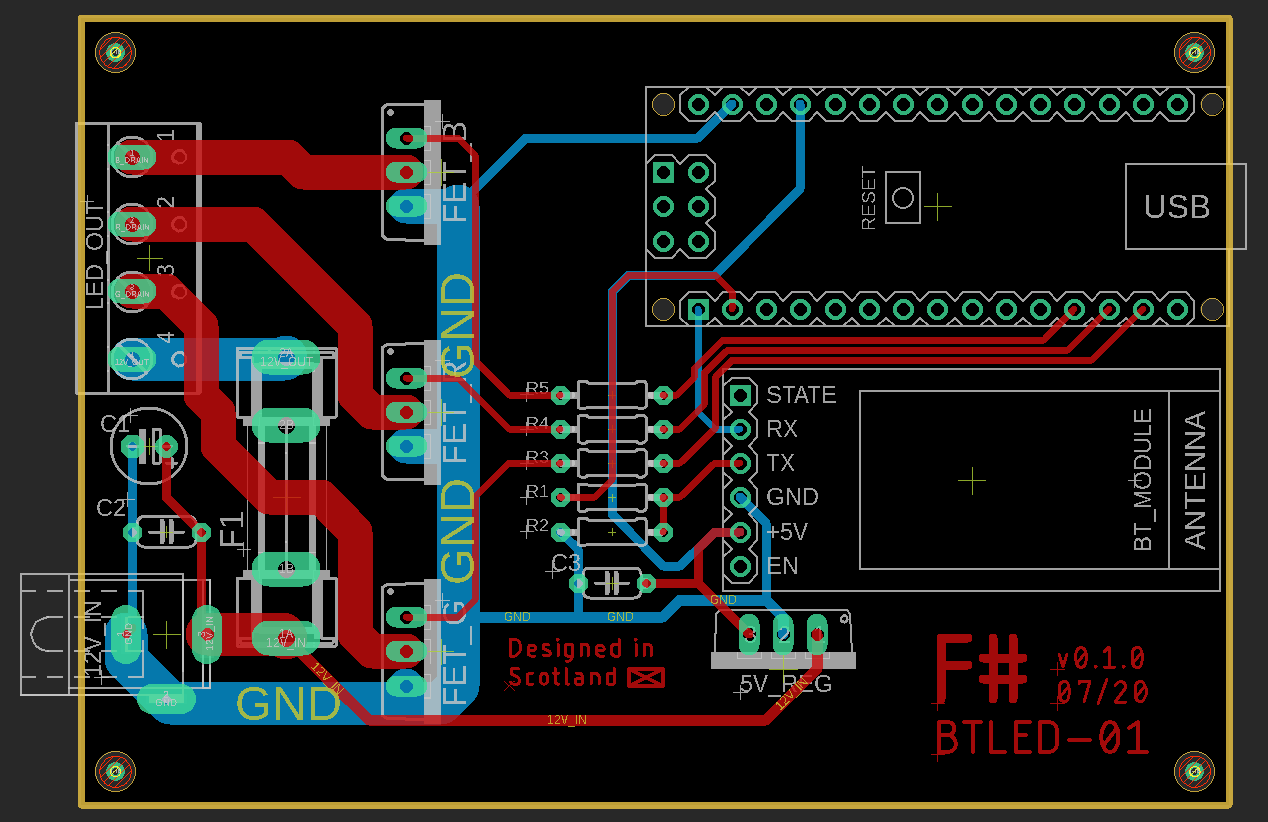
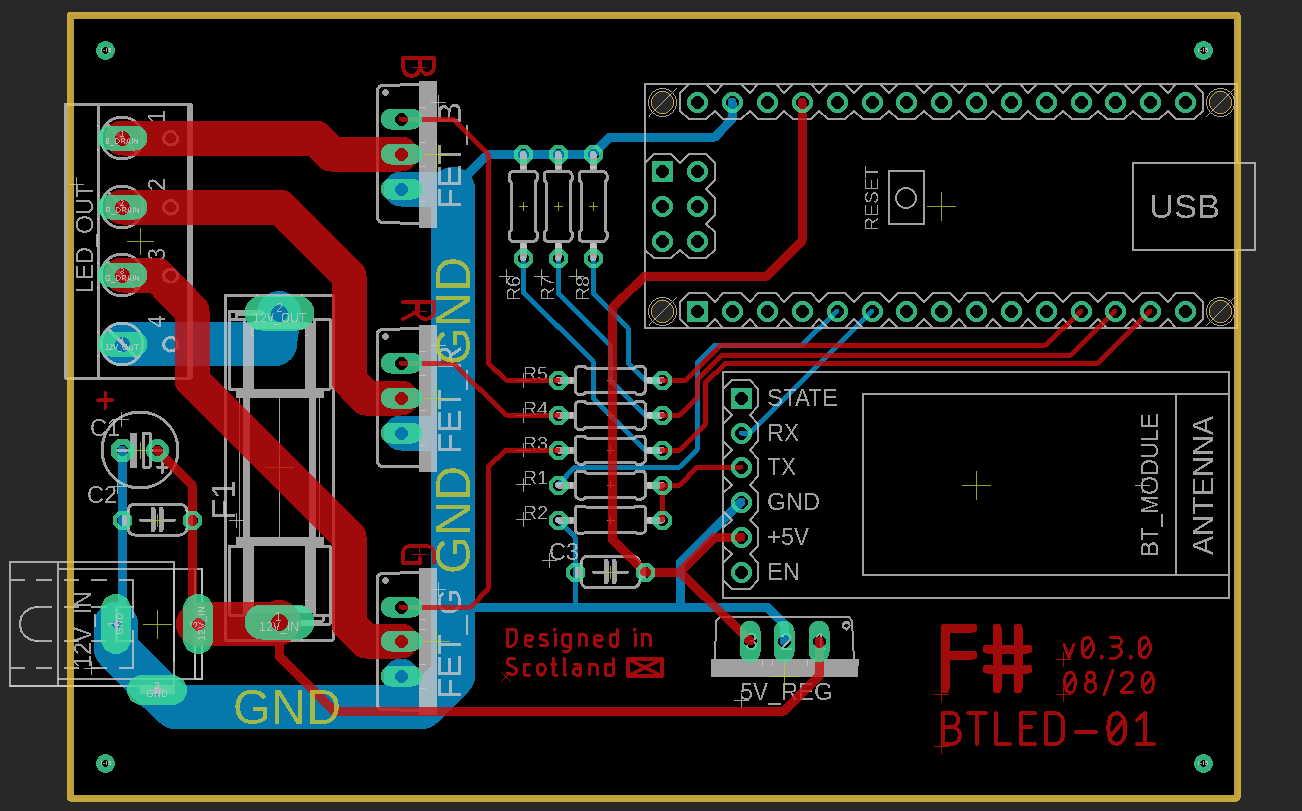
Release 0.3.0

diff --git a/README.md b/README.md
@@ -5,7 +5,7 @@ An open-hardware PWM driver board for 12V RGB LEDS, specifically 5050 LED strip.
 
 Features an onboard Arduino Nano and HC-05 Bluetooth module for control.
 
-Designed to handle up to 6A current draw, equivalent to 100 LEDs at full brightness on all channels.
+Designed to handle up to 6A current draw, roughly equivalent to 100 5050 LEDs at full brightness on all channels.
 
 Project files are for [Autodesk EAGLE](https://www.autodesk.com/products/eagle/overview).
 
@@ -17,7 +17,7 @@ Project files are for [Autodesk EAGLE](https://www.autodesk.com/products/eagle/o
  - 2x 0.1µF ceramic capacitor
  - 1x 10µf electrolytic capacitor
  - 3x 100Ω resistor
- - 1x 1kΩ resistor
+ - 4x 1kΩ resistor
  - 1x 2.2kΩ resistor
  - 1x 20mm fuse holder & 13A fuse
  - 1x 4-channel 3.5mm pitch screw terminal
